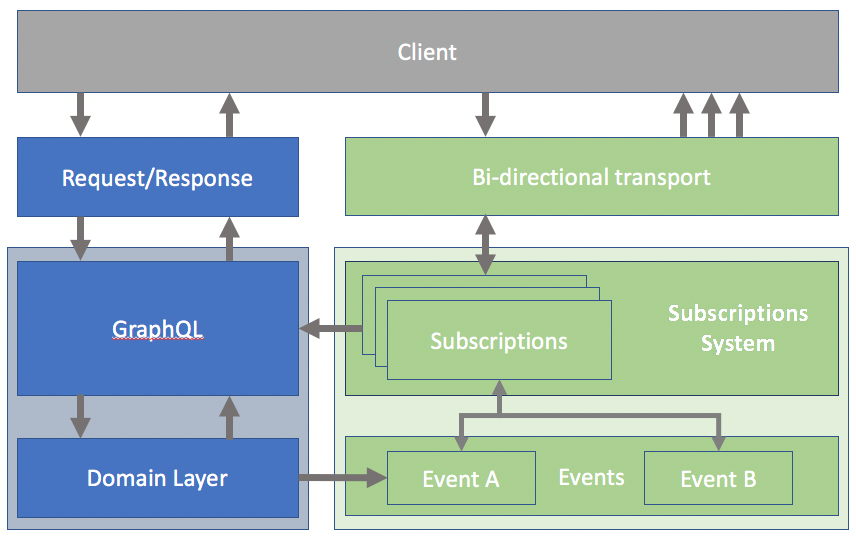
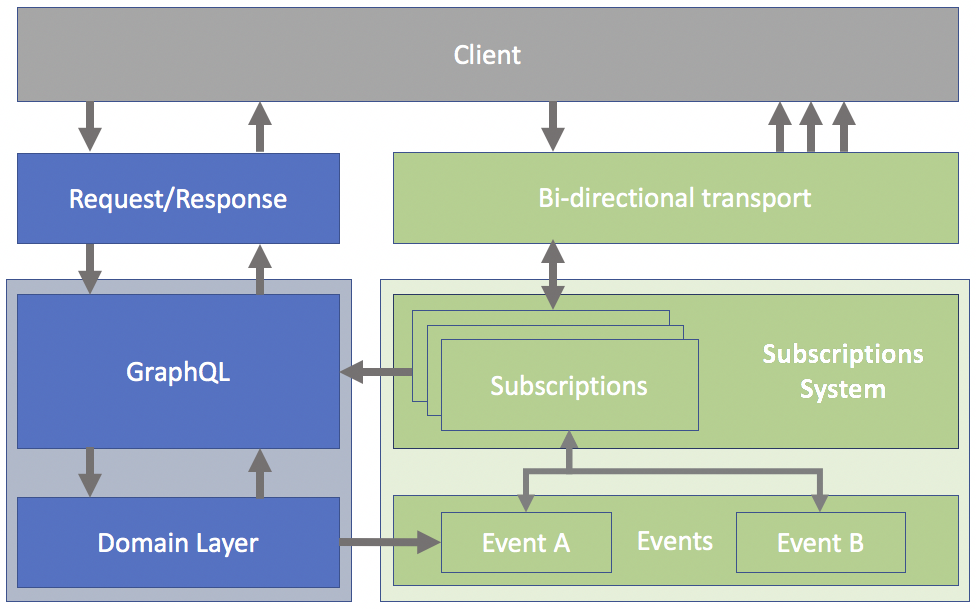
Minor wording fixes and higher-res images

diff --git a/rfcs/Subscriptions.md b/rfcs/Subscriptions.md
@@ -9,33 +9,33 @@ Modern applications increasingly include scenarios where users receive immediate
 
 **Background**
 
-Using the standard request/response GraphQL model, apps can support realtime scenarios by repeatedly issuing the same GraphQL query. However, this solution is inefficient and large scale apps may turn prefer push-based solutions. Compared to polling, push-based solutions trade off statelessness and simplicity for efficiency while raising new questions and challenges. For example: how is an “interesting event” detected and propagated? How does the GraphQL language express these semantics? How does this affect the client-side GraphQL API?
+Using the standard request/response GraphQL model, apps can support realtime scenarios by repeatedly issuing the same GraphQL query. However, this solution is inefficient and large scale apps may prefer push-based solutions. Compared to polling, push-based solutions trade off statelessness and simplicity for efficiency while raising new questions and challenges. For example: how is an “interesting event” detected and propagated? How does the GraphQL language express these semantics? How does this affect the client-side GraphQL API?
 
-There are multiple valid answers to these questions, several of which have been proposed by the open-source community already [1][2][3]. At Facebook, we have been using “GraphQL Subscriptions” [4] at scale since 2015. Following our open-source philosophy, we now believe we have demonstrated that this system is useful and generalizable. We would like to contribute our ideas to the conversation.
+There are multiple valid answers to these questions, several of which have been proposed by the open-source community already [1][2][3]. At Facebook, we have been using “GraphQL Subscriptions” [4] at scale since 2015. Following our open-source philosophy, we now believe this system is useful and generalizable. We would like to contribute our ideas to the conversation.
 
-One of GraphQL's superpowers is allowing clients to specify exactly the data they need, sidestepping a problem we call “over/under-fetching”. With push-based GraphQL solutions, we have a similar problem: “over/under pushing.” Under-pushing means we didn't send enough data, and the client now needs to make a follow-up network request. Over-pushing means we sent the client too much data; in the best case this data is irrelevant and doesn't waste anybody's mobile data plan, in the worst case, this data contains sensitive information that the client should not see.
+One of GraphQL's superpowers is allowing clients to specify exactly the data they need, sidestepping a problem we call “over/under-fetching”. With push-based solutions, we have a similar problem: “over/under pushing.” Under-pushing means we didn't send enough data, and the client now needs to make a follow-up network request. Over-pushing means we sent the client too much data; in the best case this data is irrelevant and doesn't waste anybody's mobile data plan, in the worst case, this data contains sensitive information that the client should not see. Just as request/response GraphQL addresses over and under-fetching, we believe GraphQL Subscriptions addresses over/under-pushing.
 
 **Possible Solutions**
 
 We broadly categorize realtime API solutions into three types:
 
- * **Polling**- the client periodically issues a request to check on the state of the data it cares about. Polling solutions are simple, stateless, and work with existing GraphQL applications with little extra code. However, polling is difficult to tune. When updates are infrequent/unpredictable, polling is wasteful. When updates are frequent, polling introduces additional latency. If apps outgrow polling-based solutions, they should evaluate Subscriptions and Live Queries.
+ * **Polling**- the client periodically issues a request to check on the state of the data it cares about. Polling solutions are simple, stateless, and work with existing GraphQL applications with little extra code. However, polling is difficult to tune. When updates are infrequent/unpredictable, polling is wasteful. When updates are frequent, polling introduces additional latency. If apps outgrow polling-based solutions, they should evaluate Event-based Subscriptions and Live Queries.
 
- * **Event-based Subscriptions**- the client tells the server that it cares about one or more events. Whenever those events trigger, the server notifies the client via a bi-directional transport. This model requires the server to identify a well-known set of events, and how to raise/propagate them, ahead of time. Subscriptions require server-side state, such as which subscriptions are alive, what events they are listening to, and the mapping of client connections to subscriptions. Among event-based subscriptions, we see a few sub-classes:
+ * **Event-based Subscriptions**- the client tells the server that it cares about one or more events. Whenever those events trigger, the server notifies the client via a bi-directional transport. This model requires the server to identify a well-known set of events, and how to raise/propagate them, ahead of time. Subscriptions require server-side state, such as which subscriptions are active, what events they are listening to, and the mapping of client connections to subscriptions. Among event-based subscriptions, we see a few sub-classes:
 
-  * **Fixed-payload Subscriptions**- clients only tell the server about the event(s) they're interested in and are then pushed fixed payloads. That is, the payload contents are determined by the server. For example, a flight tracker broadcasts “Flight 123 is delayed by 30 minutes” to all subscribers. This type of solution works for cases where all clients should receive the same payload. For cases where the payload is more complex or differs between users, fixed-payloads potentially send data that the client doesn't need, resulting in “over-pushing” (the push-based equivalent of over-fetching).
+  * **Fixed-payload Subscriptions**- clients only tell the server about the event(s) they're interested in and are then pushed fixed payloads. That is, the payload contents are determined by the server. For example, a flight tracker broadcasts “Flight 123 is delayed by 30 minutes” to all subscribers. This type of solution works for cases where all clients should receive the same payload. For cases where the payload is more complex or differs between users, fixed-payloads potentially send data that the client doesn't need, resulting in over-pushing.
 
-  * **Zero-payload Subscriptions**- this type of subscription sends empty events to the client where it triggers a data fetch or client-side state invalidation. Essentially, this style always “under-pushes”. This style is simple, but carries some tradeoffs. The client is now responsible for interpreting and reacting events coming from the server. This technique also has higher latency since the client must issue a network request in response to any event.
+  * **Zero-payload Subscriptions**- this type of subscription sends empty events to the client where it triggers a data fetch or client-side state invalidation. Essentially, this style always under-pushes. This style is simplifies the server, but the client is now responsible for interpreting and reacting events coming from the server. This technique also has higher latency since the client must issue a network request in response to any non-trivial event to fetch more data.
 
   * **Data-transform pipelines**- for cases where data payloads differ between subscribers, there is a class of systems that use dynamically configurable data streams. These systems require a more sophisticated event layer capable of dynamically specifying per-subscriber data-transform logic. This way, the output payload from the event layer is already subscriber-specific. The drawback of these systems is high complexity and distributed business logic. Our proposal (GraphQL Subscriptions) builds on this type of solution.
 
- * **Live Queries**- the client issues a standard query to the server but annotates all or part of the query to be “live”. Whenever the answer to the query changes, the server pushes the new data to the client via a persistent, bi-directional transport. The key difference between Live Queries and Subscriptions is that Live Queries do not depend on the notion of events. The data itself is live and includes mechanisms to communicate changes. Note that many subscription use cases can be transformed into live queries and vice versa. Live Queries rely on clever ways to detect when underlying data has changed. Live Queries require reactive data layers, polling, or a combination of both [5].
+ * **Live Queries**- the client issues a standard query to the server but annotates all or part of the query to be “live”. Whenever the answer to the query changes, the server pushes the new data to the client via a persistent, bi-directional transport. The key difference between Live Queries and Event-based Subscriptions is that Live Queries do not depend on the notion of events. The data itself is live and includes mechanisms to communicate changes. Note that many subscription use cases can be transformed into live queries and vice versa. Live Queries require reactive data layers, polling, or a combination of the two [5].
 
 In the case of subscriptions and live queries, the addition of server-side state means production-grade systems will need to consider scalability, high-availability, throttling, buffering, and event/delivery rate mismatches in their designs.
 
 **Proposed Solution: GraphQL Subscriptions**
 
-Clients send the server a GraphQL query and query variables. The server maps these inputs to a set events, and executes the query when the events trigger. This model avoids over-pushing/under-pushing but requires a GraphQL backend. GraphQL Subscriptions provides an abstraction over individual events and exposes an API where the client subscribes to a query. Compared with existing data-transform pipeline techniques, GraphQL Subscriptions produces privacy-aware, right-sized payloads without add duplicate business logic to the event/messaging layer.
+In "GraphQL Subscriptions", clients send the server a GraphQL query and query variables. The server maps these inputs to a set events, and executes the query when the events trigger. This model avoids over-pushing/under-pushing but requires a GraphQL backend. GraphQL Subscriptions provides an abstraction over individual events and exposes an API where the client subscribes to a query. Compared with existing data-transform pipeline techniques, GraphQL Subscriptions produces privacy-aware, right-sized payloads without pushing business logic to the event/messaging layer.
 
 At Facebook, we believe GraphQL Subscriptions exhibits a set of useful tradeoffs and warrants definition and inclusion in the GraphQL specification. By specifying GraphQL Subscriptions, we hope to achieve the following goals:
 
@@ -51,9 +51,9 @@ At Facebook, we believe GraphQL Subscriptions exhibits a set of useful tradeoffs
 
 We'll try to define the irreducible components of a GraphQL Subscriptions system below:
 
-* **Subscriptions System-** a component that manages the lifetime of Subscription objects. Each individual subscription executes a query in response to one or more events. Subscriptions are created by specifying a query and optional query variables. These inputs are then mapped to a set of events. Whenever one of these events fires, the subscription executes the query, variables, and event payload and invokes the specified callback function with the response.
+* **Subscriptions System:** a component that manages the lifetime of Subscription objects. Each individual subscription executes a query in response to one or more events. Subscriptions are created by specifying a query and optional query variables. These inputs are then mapped to a set of events. Whenever one of these events fires, the subscription executes the query, variables, and event data and invokes the specified callback function with the response.
 
-* **Events**: any “interesting thing” the system cares about. Events contain optional data to describe what happened. For example, a “new email” event might define a payload that contains the ID of the new email. The combination of query, query variables, and payload is executed to create a GraphQL response in the shape that the client expects.
+* **Events**: any “interesting thing” the system cares about. Events contain optional data to describe what happened. For example, a “new email” event might include the ID of the new email. The combination of query, query variables, and event data is executed to create a GraphQL response in the shape that the client expects.
 
 Reference-style:
 ![](subscriptions_01.png)
@@ -79,7 +79,7 @@ The lifetime of a subscription looks like this:
 
 *Note: the notion of a “Single Subscription” is logical. The implementation does not need to create one subscription object per client.*
 
-We welcome and look forward to comments, feedback, and discussion on this RFC.
+We look forward to comments, feedback, and discussion on this RFC.
 
 **References**
 
